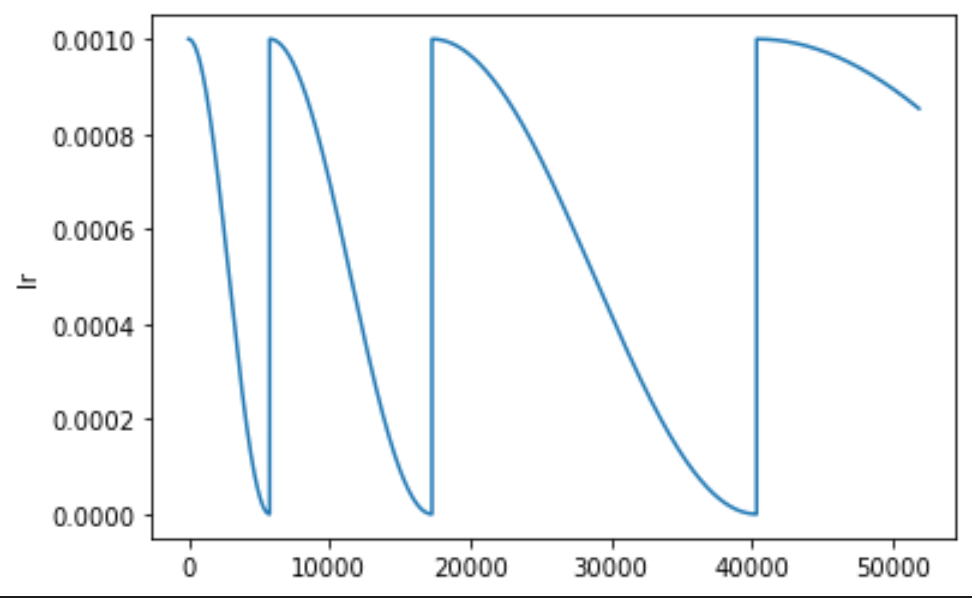
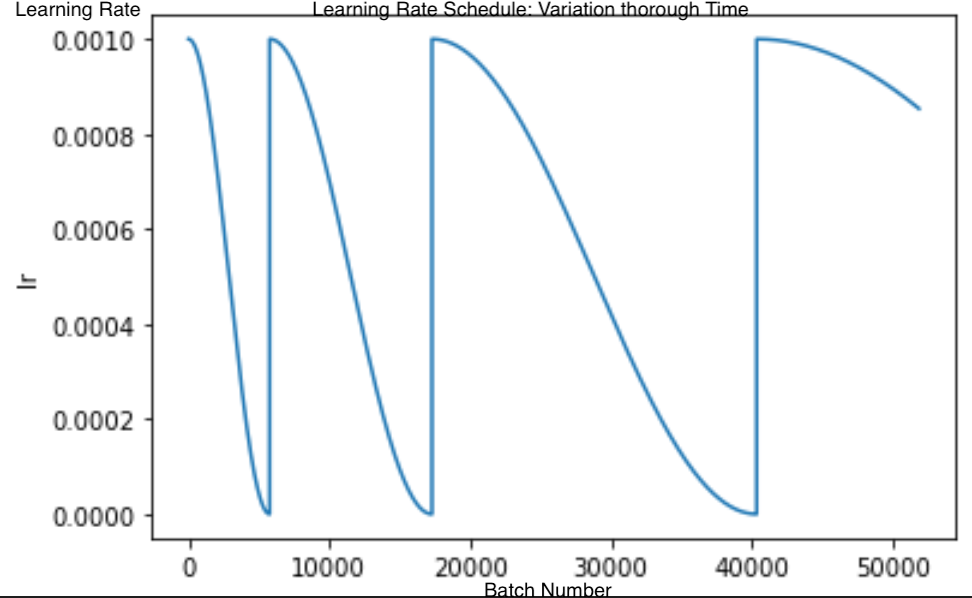
Update Q6: NN model details

Changed region(s): [[0.3086, 0.0, 0.7716, 0.0301], [0.4938, 0.9632, 0.6481, 1.0], [0.0, 0.0, 0.1543, 0.0301]]

diff --git a/_posts/2021-11-21-Milestone2.md b/_posts/2021-11-21-Milestone2.md
@@ -445,7 +445,7 @@ In order to improve our models' accuracy _(and achieve full marks)_, in this sec
 |----------------------------------------------------|----------|------------------|-----------|----------------------------------------------------------------------------|
 |Random Forest                                       |0.75     |0.53             |**0.09**      |[Details](https://www.comet.ml/meriembchaaben/ift6758/561f6ad677da470986f66c916519e9cf)|
 |Feature Selection + XGBoost + Regularization        |0.77     |0.61             |0.17      |[Details](https://www.comet.ml/meriembchaaben/ift6758/6b56e4f49b6740548f83d6a16c13dc6d)|
-|**XGBoost + Regularization + Grid Search [BEST MODEL]**              |**0.77**     |**0.61**             |0.17      |[Details](https://www.comet.ml/meriembchaaben/ift6758/16c4746d9f314fa9b0038911ee4cdfac)|
+|**XGBoost + Regularization + Grid Search [BEST MODEL]**              |**0.77**     |**0.61**             |0.17      |[Details](https://www.comet.ml/meriembchaaben/ift6758/6cc6d08bce9844af9141e87129e9a78f)|
 |Neural Network (cross entropy loss, early stopping) |0.54     |0.55             |0.09      |[Details](https://www.comet.ml/meriembchaaben/ift6758/3533c1ad47bf4d53b53edccf0de74f1e)|
 |Neural Network (focal loss, gamma=2, early stopping)|0.55     |0.56             |0.10      |[Details](https://www.comet.ml/meriembchaaben/ift6758/dd864f6af8094e1ab1c19fbcb4115278)|
 
@@ -531,7 +531,77 @@ Some of these experiments are:
 - testign several values for the gamma parameter used in Stochastic Gradient Descent with Warm Restarts,
 - and many more (as outlined in the Overview section).
 
-An interesting insight is that, for this particualr problem settig, feature selection systematically yielded either a large feature set or low model accuracy, which seems to indicate that the features present carry meaningful information. This finding is consistent with our observations from Section 5.
+Although our Neural Network-based approach was outperformed by our highly-optimized XGBoost approach, we still had some interesting observations to discuss.
+
+Our Neural Network had the following architecture:
+
+```
+TabularModel(
+  (embeds): ModuleList(
+    (0): Embedding(18, 8)
+    (1): Embedding(1180, 84)
+    (2): Embedding(2, 2)
+    (3): Embedding(32, 11)
+    (4): Embedding(4, 3)
+    (5): Embedding(8, 5)
+    (6): Embedding(3, 3)
+    (7): Embedding(4, 3)
+    (8): Embedding(558, 55)
+    (9): Embedding(3, 3)
+    (10): Embedding(6, 4)
+    (11): Embedding(4, 3)
+    (12): Embedding(3, 3)
+    (13): Embedding(3, 3)
+    (14): Embedding(3, 3)
+    (15): Embedding(3, 3)
+    (16): Embedding(3, 3)
+  )
+  (emb_drop): Dropout(p=0.0, inplace=False)
+  (bn_cont): BatchNorm1d(10, eps=1e-05, momentum=0.1, affine=True, track_running_stats=True)
+  (layers): Sequential(
+    (0): LinBnDrop(
+      (0): Linear(in_features=209, out_features=200, bias=False)
+      (1): ReLU(inplace=True)
+      (2): BatchNorm1d(200, eps=1e-05, momentum=0.1, affine=True, track_running_stats=True)
+    )
+    (1): LinBnDrop(
+      (0): Linear(in_features=200, out_features=100, bias=False)
+      (1): ReLU(inplace=True)
+      (2): BatchNorm1d(100, eps=1e-05, momentum=0.1, affine=True, track_running_stats=True)
+    )
+    (2): LinBnDrop(
+      (0): Linear(in_features=100, out_features=2, bias=True)
+    )
+  )
+)
+```
+
+1. We pre-process the data by filling in missing values using the `median`, and standardizing numerical values. We one-hot encode categorical features.
+2. We then pass the categorical data through `feature embeddings`; we have one embedding per categorical feature. This helps us achieve lower data dimensionality.
+3. Next we concatenate the output of the feature embeddings, as well as the data from our numeric features. For this model we do not use drop out.
+4. The next 2 layers in our Nerual Network are **Hidden Layers**, composed of:
+   1. A fully connected linear layer
+   2. A Recrifier Linear Unit (ReLU), non-linear activation
+   3. A Batch-Normalization Layer
+5. Naturally, the last layer is an **output layer**, with two outputs, (`p("Shoot"|x_i)`, `p("Goal"|x_i)`), where the two probabilites are constrained to sum to 1 and span the (0,1) range.
+
+For the highest scoring NN model, we used a `Focal Loss` loss function. This specific loss function has the advantage of using a scaling factor ro mudulate the Cross Entropy loss as to assign higher improtance to hard negative examples. In the context of this NN model, those examples of focus were class "Goal" labels.
+
+Next we proceed to explore multiple learnign rates and select an optimal learning rate:
+![Learning Rate](assets/milestone2/fastai/fastai-fl-es-lro.png)
+**Fig. 6.6:** Optimal Learning Rate Search
+
+After selecting an optimal learning rate (orange dot) to initialize the experiment, we proceed to train our model using a **Stochastic Gradient Descent with Warm Restarts** (SGDR) learning rate policy. This policy is similar to the **One-Cycle** learnign rate policy we also tested, with the main diference being that SGDR has many cycles -- in our case, at most 5, depending on early stopping.
+
+![Learning Rate Schedule](assets/milestone2/fastai/fastai-fl-es-lrs.png)
+**Fig. 6.7:** Learning Rate Schedule: Stochastic Gradient Descent with Warm Restarts (SGDR) Learning Rate Policy
+
+![Train and Validation Losses](assets/milestone2/fastai/fastai-fl-es-loss.png)
+**Fig. 6.8:** Training and Validation Losses by Training Batch
+
+We can see based on the figures above how a new learning rate cycle causes the training loss to increase, as each new cycle has starts with a large learnign rate that forces the optimizer out of local minima, in order to, hopefully, reach a better minima, and a drop in validation loss.
+
+Finally, another interesting insight is that, for this particualr problem settig, feature selection systematically yielded either a large feature set or low model accuracy, which seems to indicate that the features present carry meaningful information. This finding is consistent with our observations from Section 5.
 Perhaps, a good next-step in order to further improve the accuracy of our models, woud be creating additonal, domain-epertise-based features. 
 
 
